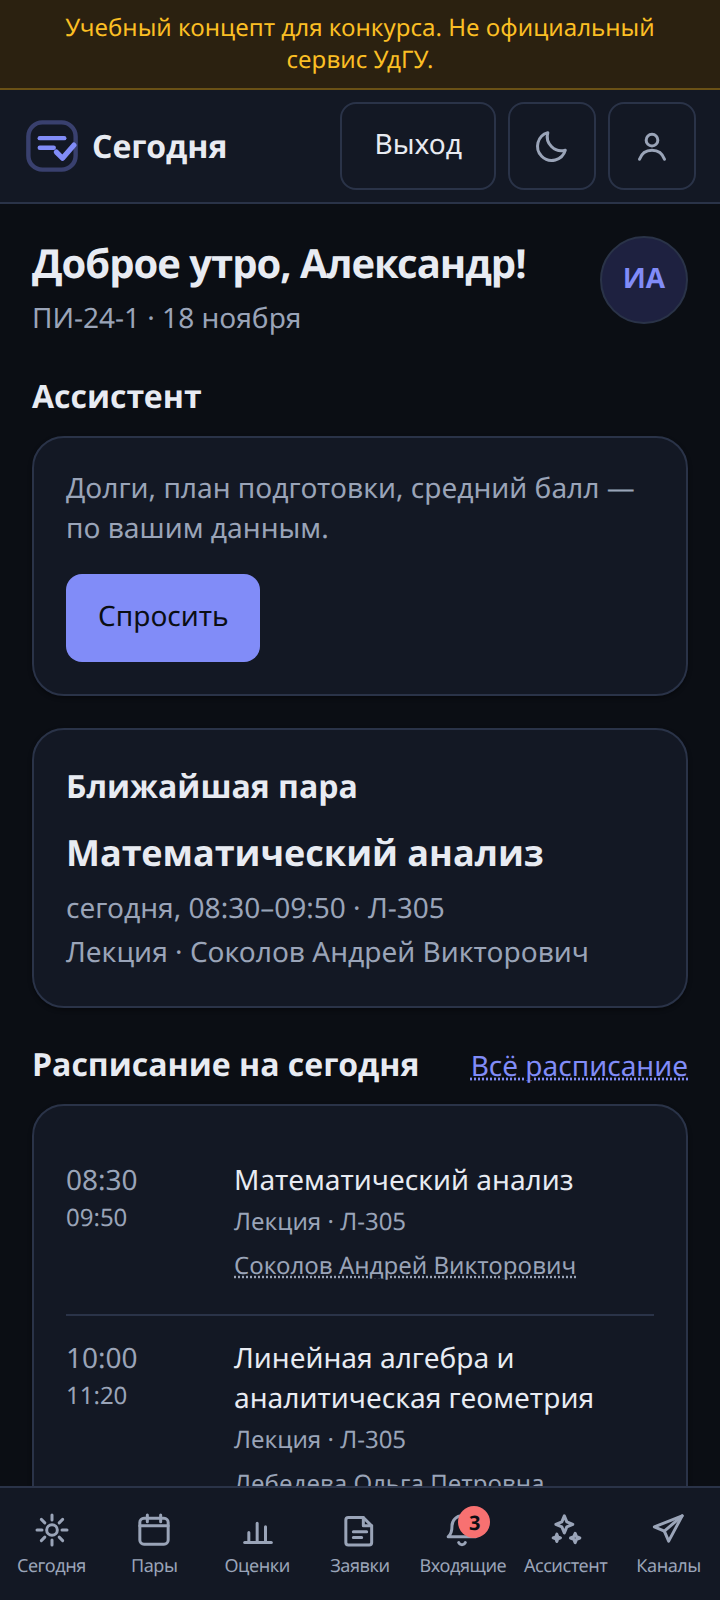
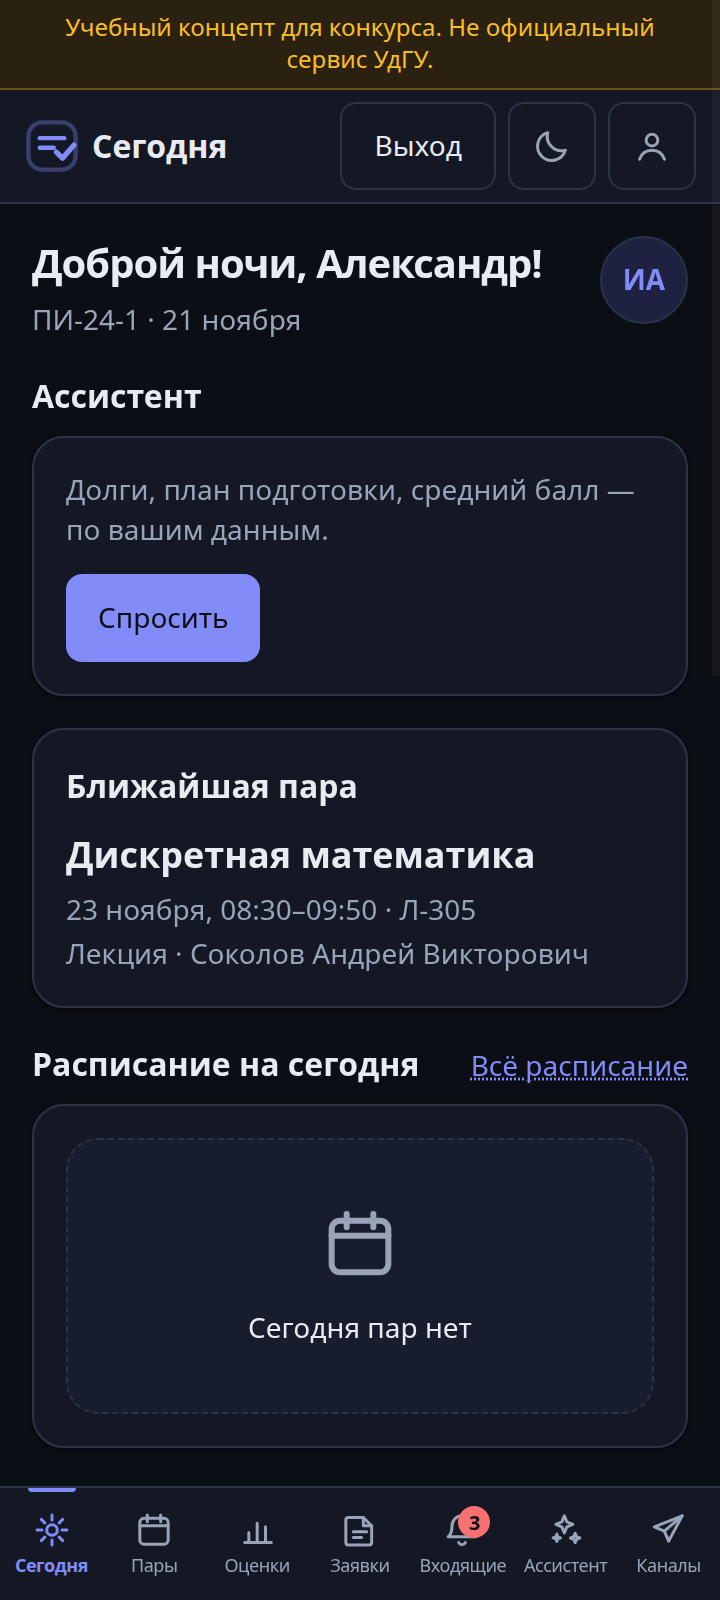
docs(p5): итог волн 1–5 «оживления» + финальные скриншоты на проде (образ 5.2.0, приёмка 25/25)

diff --git a/README.md b/README.md
@@ -263,3 +263,21 @@ DNS-rebinding по Host/Origin). Авторизация — СУЩЕСТВУЮЩ
 LLM опционален (`ASSISTANT_LLM_*` в env, без ключа — детерминированный
 режим). Студент и сотрудник деканата видят честную заглушку «раздел для
 преподавателей» (не 404), аноним уходит на вход.
+
+Готово (P5 «Оживить интерфейс», волны 1–5 — финальный забег 21.11):
+волна 1 — motion-токены, press-отклик, stagger секций, SVG-график тренда
+успеваемости (серверный рендер); волна 2 — рельс дня в расписании
+(маркеры «Сейчас»/«Далее», UTC-мгновения) и таймлайн заявки; волна 3 —
+однородный отклик всех интерактивных элементов (сторож
+`feedback-consistency`) и индикатор раздела в навигации (включая
+`/dashboard`); волна 4 — живой чат ассистента: лента обменов, отклик на
+отправку, индикатор «печатает», атрибуция ответа ссылками на разделы
+кабинета; волна 5 — иконка раздела в каждом пустом состоянии (сторож
+`empty-state-icon`: 29 сайтов), метка «когда» у ближайшей пары на
+дашборде («Сейчас» / «Через 2 ч 15 мин», UTC, скрыта при сроке больше
+суток), детерминизация сидера (инварианты переносов/отмен на любом
+стартовом дне + идентичный датасет при фиксированном «сейчас», кроме
+соли argon2id). Финальные числа: typecheck 5/5, `npm test` 532/532
+(сторожа: секреты, однородность отклика, иконки пустых состояний,
+инварианты сидера), сборка 70 путей, приёмочный прогон на проде
+25/25 по публичному URL (проверки шли из Ижевска, RU, без VPN).

diff --git a/docs/ACCEPTANCE.md b/docs/ACCEPTANCE.md
@@ -2,10 +2,13 @@
 
 Проверяю каждый приоритет (P1–P4) по этому списку. Отметка «ок» — только после личной проверки.
 
-> Статусы выставлены по QA-гейту Hermes (этапы 1–16 в `docs/LOG-hermes.md`):
-> typecheck 5/5 воркспейсов, `npm test` **473/473** (db 29 + core 231 + mcp-server 20 + web 193,
-> включая гард против утечки секретов), чистая прод-сборка, `db:seed`, живые HTTP-прогоны
-> на проде (финальный приёмочный прогон 18.11 — 55/55 по публичному URL).
+> Статусы выставлены по QA-гейту Hermes (этапы 1–16 + волны 1–5 UI-оживления
+> в `docs/LOG-hermes.md`): typecheck 5/5 воркспейсов, `npm test` **532/532**
+> (db 31 + core 244 + mcp-server 20 + web 237, включая сторожа: утечка секретов,
+> однородность отклика, иконки пустых состояний, инварианты сидера), чистая
+> прод-сборка, `db:seed`, живые прогоны. Финальный приёмочный прогон 21.11 по
+> публичному URL — **25/25** (образ `udgu-web:5.2.0` из финального master,
+> проверки из Ижевска, RU, без VPN). Предыдущий прогон 18.11 — 55/55.
 > Пункты «нужен глаз PO» автоматом не проверяются (субъективное качество UI).
 
 ## P1 — Ядро
